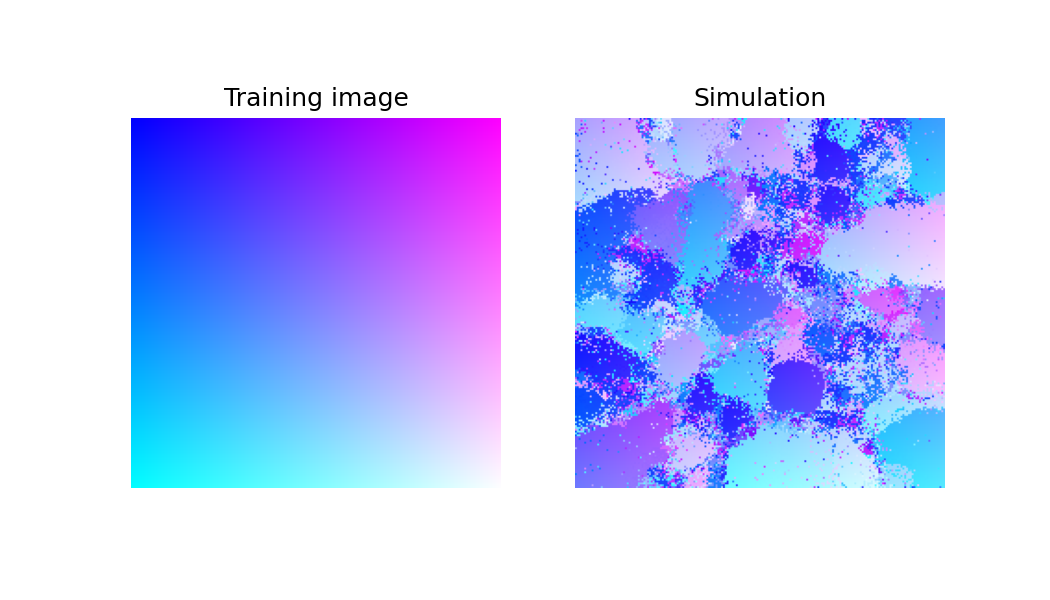
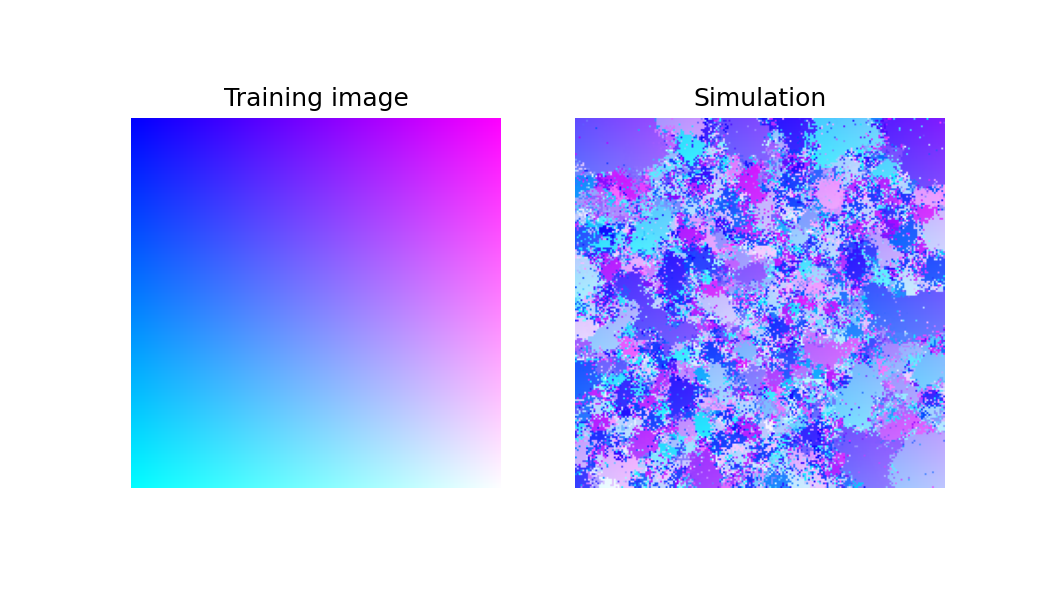
Add verbatim patches testing case

Changed region(s): [[0.5486, 0.18, 0.9143, 0.84]]

diff --git a/verbatim_copy.py b/verbatim_copy.py
@@ -1,4 +1,6 @@
 import os.path
+import random
+from random import randint
 from random import randrange
 
 import matplotlib.pyplot as plt
@@ -27,6 +29,29 @@ def make_checkerboard(full_copy, full_random, square_size):
     return checkerboard.astype(np.int32)
 
 
+def put_patches(full_copy, full_random, num_patches, patch_radius, noise=0.05):
+    result = full_random.copy()
+    is_verbatim = np.full(result.shape, False)
+    total_size = is_verbatim.shape[0] * is_verbatim.shape[1]
+    lr, rr = 5, 25
+    for _ in range(num_patches):
+        h, w = full_random.shape[:2]
+        circle_pos_x, circle_pos_y = randrange(w), randrange(h)
+        circle_pos_copy_x, circle_pos_copy_y = randrange(2 * rr, w - 2 * rr), randrange(2 * rr, h - 2 * rr)
+        shift_x = circle_pos_copy_x - circle_pos_x
+        shift_y = circle_pos_copy_y - circle_pos_y
+        circle_r = randint(5, 25)
+
+        for iy, ix in np.ndindex(result.shape):
+            # Check if point is on circle and put some noise
+            if (ix - circle_pos_x) ** 2 + (iy - circle_pos_y) ** 2 <= circle_r ** 2 and random.random() >= noise:
+                result[iy, ix] = full_copy[iy + shift_y, ix + shift_x]
+                is_verbatim[iy, ix] = True
+
+    verbatim_copy_proportion = is_verbatim.sum() / total_size
+    return result, verbatim_copy_proportion
+
+
 directory = "simulations"
 for path in os.listdir(directory):
     full_path = os.path.join(directory, path)
@@ -44,48 +69,68 @@ for path in os.listdir(directory):
         ti = file['ti']
         original_size = ti.shape[0] * ti.shape[1]
         sourceIndex = np.stack(
-            np.meshgrid(np.arange(ti.shape[0]) / ti.shape[0], np.arange(ti.shape[1]) / ti.shape[1]) + [np.ones_like(ti)], axis=-1)
+            np.meshgrid(np.arange(ti.shape[0]) / ti.shape[0], np.arange(ti.shape[1]) / ti.shape[1]) + [
+                np.ones_like(ti)], axis=-1)
 
-        fig, ((ax1, ax2), (ax3, ax4)) = plt.subplots(2, 2, figsize=(6, 6))
-        fig.suptitle(f'QS stone, k={k}', size='xx-large')
-        ax1.imshow(ti)
-        ax1.set_title('Training image')
-        ax1.axis('off')
-        ax2.imshow(simulation)
-        ax2.set_title('Simulation')
-        ax2.axis('off')
-
-        ax3.imshow(sourceIndex)
-        ax3.set_title('Training image index map')
-        ax3.axis('off')
-        ax4.imshow(np.reshape(sourceIndex, (-1, 3))[index_map])
-        ax4.set_title('Simulation index map')
-        ax4.axis('off')
-        plt.savefig('output/input_example_index_map', dpi=150)
-
-        plt.savefig('output/input_example', dpi=150)
-        plt.show()
-
-        fig, (ax1, ax2) = plt.subplots(1, 2, figsize=(7, 4))
-        ax1.imshow(sourceIndex)
-        ax1.set_title('Training image')
-        ax1.axis('off')
-        ax2.imshow(np.reshape(sourceIndex, (-1, 3))[index_map])
-        ax2.set_title('Simulation')
-        ax2.axis('off')
-        plt.savefig('output/input_example_index_map', dpi=150)
-        plt.show()
+        # fig, ((ax1, ax2), (ax3, ax4)) = plt.subplots(2, 2, figsize=(6, 6))
+        # fig.suptitle(f'QS stone, k={k}', size='xx-large')
+        # ax1.imshow(ti)
+        # ax1.set_title('Training image')
+        # ax1.axis('off')
+        # ax2.imshow(simulation)
+        # ax2.set_title('Simulation')
+        # ax2.axis('off')
+        #
+        # ax3.imshow(sourceIndex)
+        # ax3.set_title('Training image index map')
+        # ax3.axis('off')
+        # ax4.imshow(np.reshape(sourceIndex, (-1, 3))[index_map])
+        # ax4.set_title('Simulation index map')
+        # ax4.axis('off')
+        # plt.savefig('output/input_example_index_map', dpi=150)
+        # plt.savefig('output/input_example', dpi=150)
+        # plt.show()
+        #
+        # fig, (ax1, ax2) = plt.subplots(1, 2, figsize=(7, 4))
+        # ax1.imshow(sourceIndex)
+        # ax1.set_title('Training image')
+        # ax1.axis('off')
+        # ax2.imshow(np.reshape(sourceIndex, (-1, 3))[index_map])
+        # ax2.set_title('Simulation')
+        # ax2.axis('off')
+        # plt.savefig('output/input_example_index_map', dpi=150)
+        # plt.show()
 
         # verbatim copy:
         # simulation = ti.copy()
         # index_map = np.arange(0, 40000).reshape((200, 200))
 
+        # Patches
+        index_map, verbatim_copy_proportion = put_patches(np.arange(0, 40000).reshape((200, 200)),
+                                                          (np.random.rand(200, 200) * 40000).astype(np.int32), 10, 30)
+        plt.imshow(np.reshape(sourceIndex, (-1, 3))[index_map])
+        plt.title(f'Patch dummy index map, proportion verbatim = {round(verbatim_copy_proportion, 3)}')
+        plt.axis('off')
+        plt.savefig('output/patch_index_map', dpi=150)
+        plt.show()
+
         # Randomness
         # index_map = (np.random.rand(200, 200) * 40000).astype(np.int32)
+        # plt.imshow(np.reshape(sourceIndex, (-1, 3))[index_map])
+        # plt.title('Random dummy index map')
+        # plt.axis('off')
+        # plt.savefig('output/random_index_map', dpi=150)
+        # plt.show()
 
         # Checkerboard
-        index_map = make_checkerboard(np.arange(0, 40000).reshape((200, 200)),
-                                      (np.random.rand(200, 200) * 40000), 10)
+        # index_map = make_checkerboard(np.arange(0, 40000).reshape((200, 200)),
+        #                               (np.random.rand(200, 200) * 40000), 10)
+        #
+        # plt.imshow(np.reshape(sourceIndex, (-1, 3))[index_map])
+        # plt.title('10x10 Checkerboard dummy index map')
+        # plt.axis('off')
+        # plt.savefig('output/checkerboard_index_map', dpi=150)
+        # plt.show()
 
         # shuffled randomness:
         # random_seed = np.random.randint(0, 1000)
@@ -134,8 +179,7 @@ for path in os.listdir(directory):
             proportion_above_0_5 = HeatMapAnalysis(non_weighted_sim_map).above_treshold_heat_index(0.5)
             proportion_above_1_0 = HeatMapAnalysis(non_weighted_sim_map).above_treshold_heat_index(1.0)
             mean_heat_value_with_neighbours = round(HeatMapAnalysis(heat_map_including_neighbours).mean_heat_value(), 4)
-            patch_number, largest_box_size = HeatMapAnalysis(non_weighted_sim_map).patch_stats(patch_size_treshold=10,
-                                                                                               plot=True)
+            patch_number, largest_patch_size = HeatMapAnalysis(non_weighted_sim_map).patch_stats(patch_size_treshold=10, plot=True)
 
             print(f"--- Filter_radius: {filter_radius} ---")
             print(f"Global statistics:")
@@ -148,7 +192,7 @@ for path in os.listdir(directory):
             print(f"Mean heat value including close by verbatim: {mean_heat_value_with_neighbours}")
             print(f"Number of patches: {patch_number}")
             print(
-                f"Largest continuous patch size: {largest_box_size} pix, proportion sim: {largest_box_size / simulation_size}, original: {largest_box_size / original_size}")
+                f"Largest continuous patch size: {largest_patch_size} pix, proportion sim: {largest_patch_size / simulation_size}, original: {largest_patch_size / original_size}")
             print("---\n")
 
             #  --- Do plotting ---
